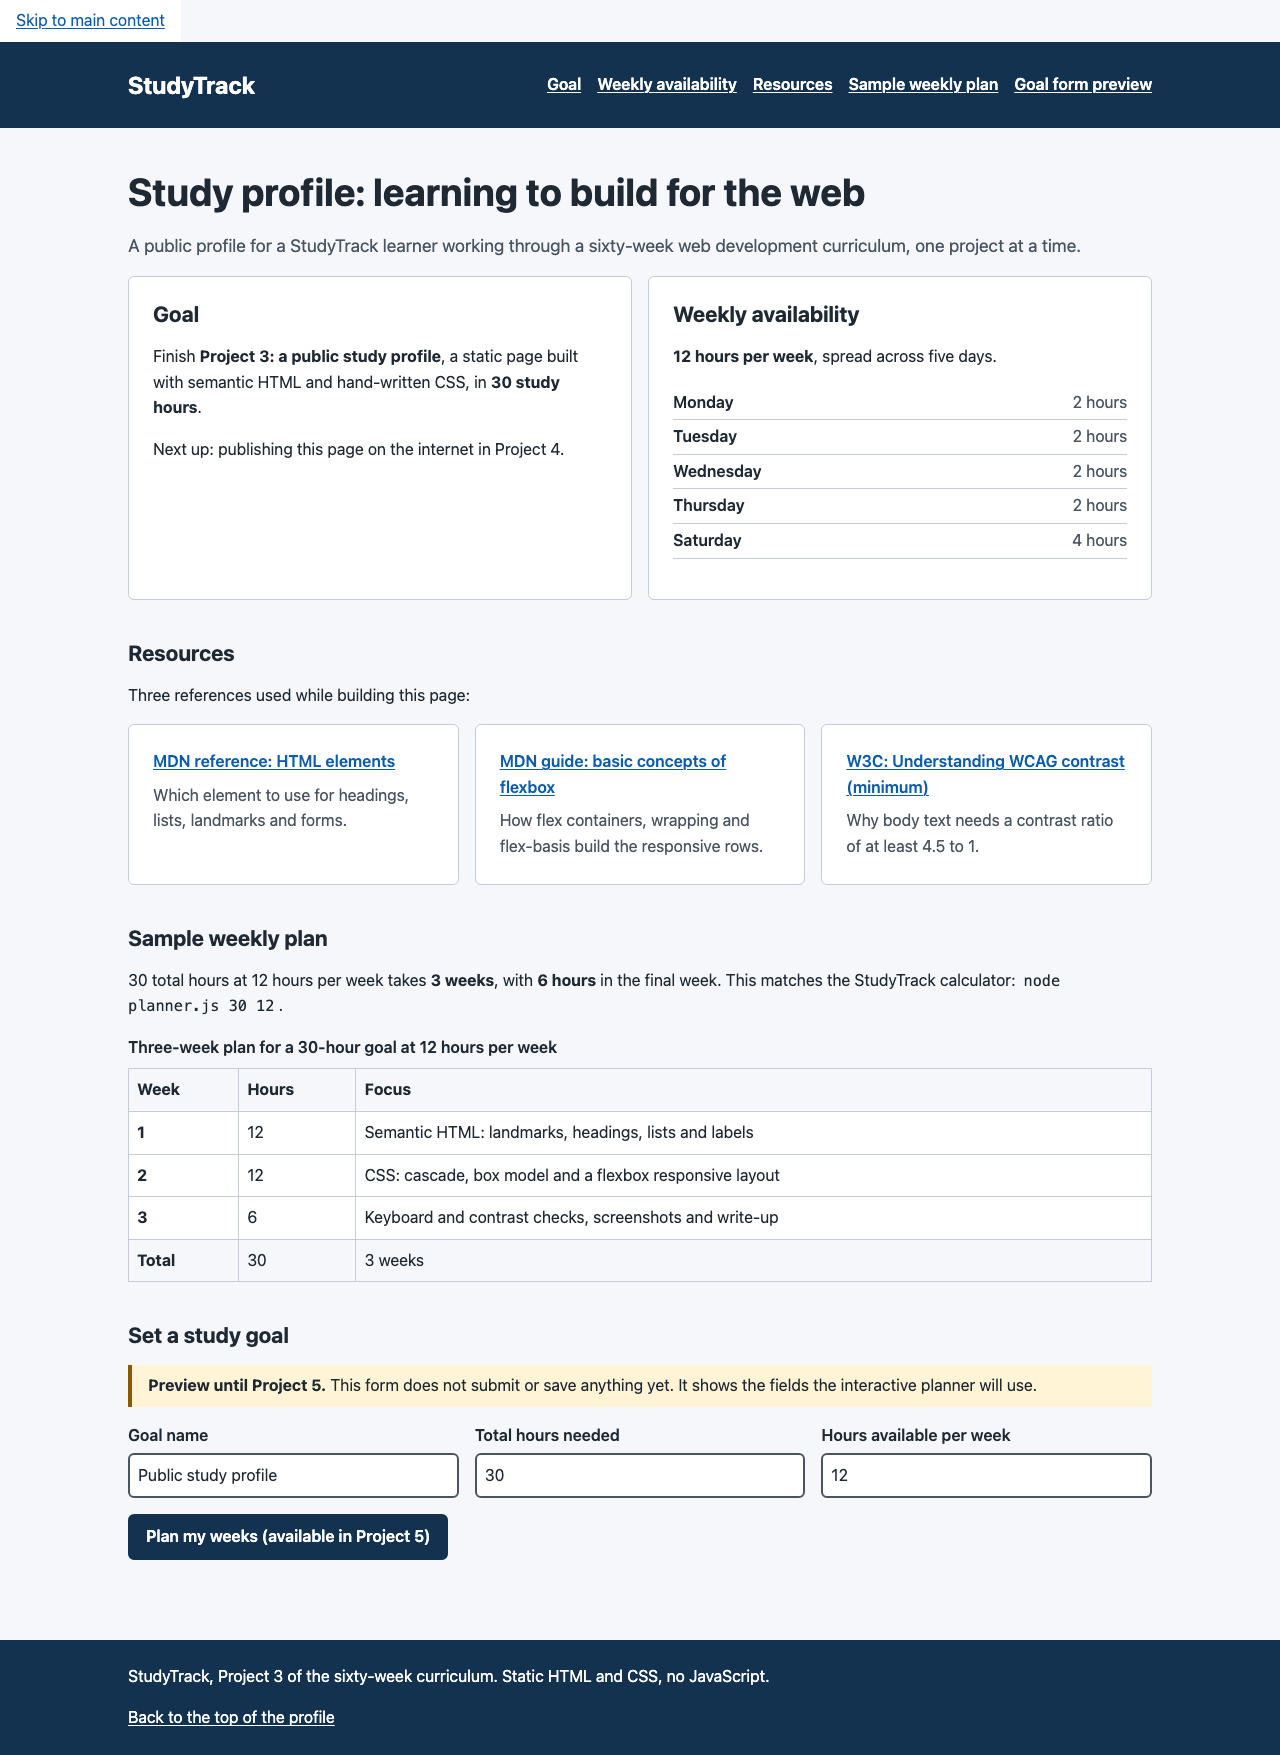
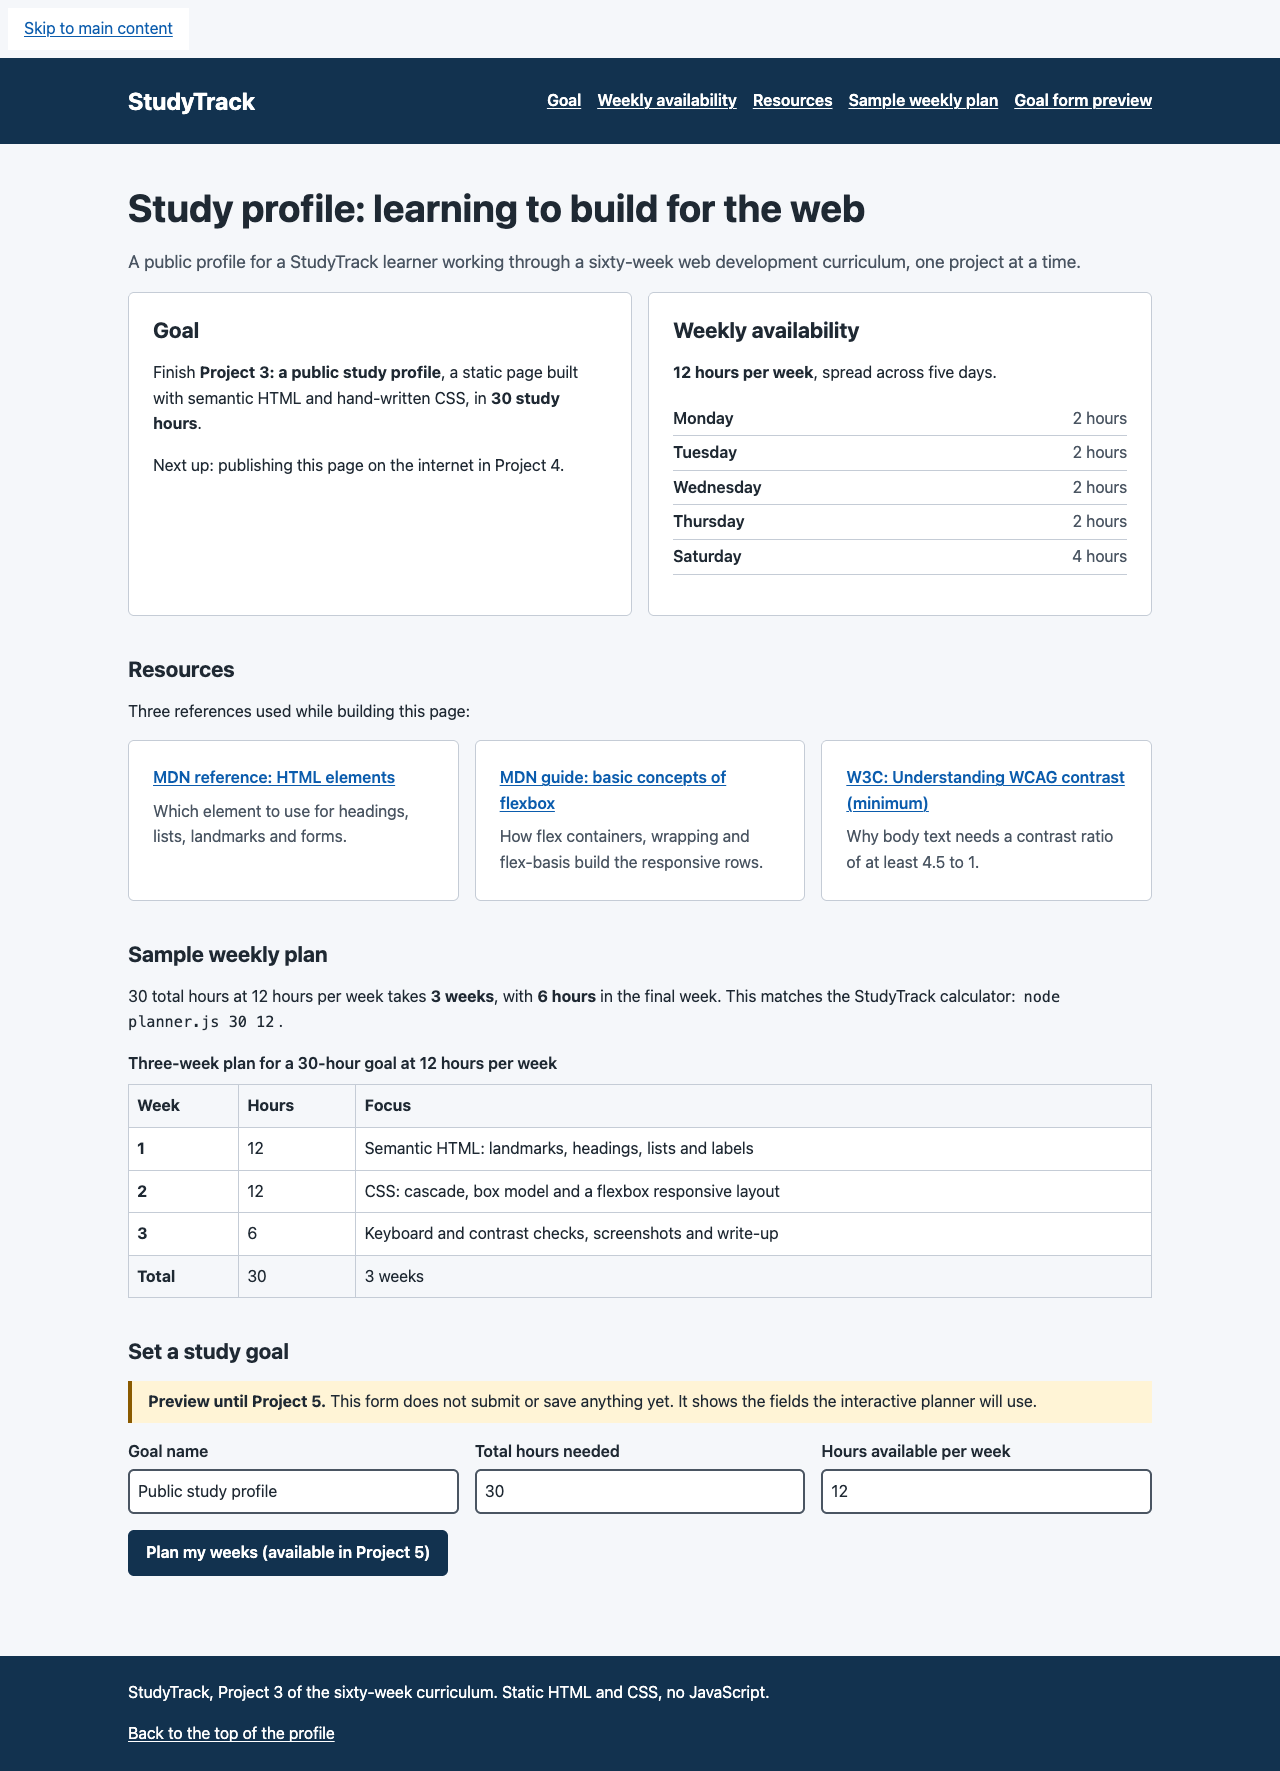
fix(web): keep skip-link focus ring fully visible and off the navy header
The skip link sat at (0,0), so its 3px orange ring was clipped by the
viewport edge and its bottom edge overlapped the navy header, where orange
is only 2.54:1. An 8px margin now keeps the whole ring (3px outline + 2px
offset) on the light page background (4.83:1) with a 3px gap above the
header. Refreshed full-page screenshots and added skip-link focus
screenshots at 360px and 1280px.

diff --git a/web/styles.css b/web/styles.css
@@ -88,9 +88,13 @@ code {
 
 /* 4. Components ----------------------------------------------------------- */
 
-/* Skip link: first thing a keyboard user reaches. */
+/* Skip link: first thing a keyboard user reaches. The margin keeps it off
+   the viewport edge and away from the navy header, so its whole focus ring
+   (3px outline + 2px offset = 5px outside the box) is drawn on the light
+   page background instead of being clipped or overlapping the header. */
 .skip-link {
   display: inline-block;
+  margin: var(--space-2);
   padding: var(--space-2) var(--space-3);
   background: var(--color-surface);
 }
@@ -389,7 +393,9 @@ button:focus-visible {
   border-color: var(--color-text);
 }
 
-/* The skip link is the first stop on the tab route; make it obvious. */
+/* The skip link is the first stop on the tab route; make it obvious. Its
+   ring stays orange: thanks to the margin above, both sides of the ring
+   touch only the light page background (4.83:1), never the navy header. */
 .skip-link:focus-visible {
   background: var(--color-text);
   color: var(--color-surface);
